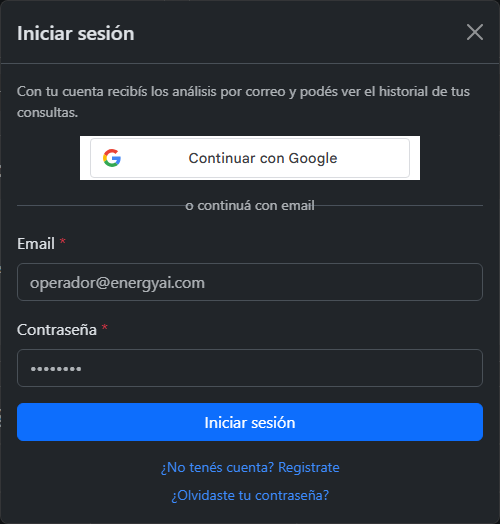
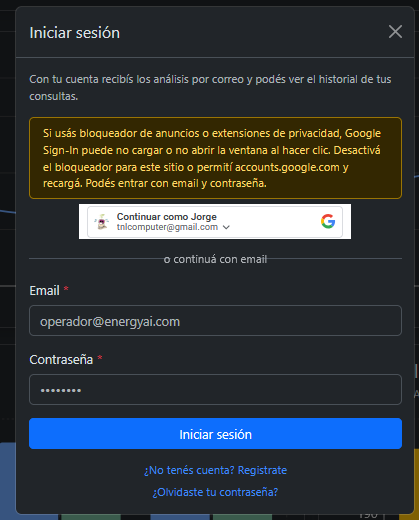
docs(frontend): README Análisis IA, login Google y aviso bloqueadores
Capturas analisis-ia y login; aviso preventivo en LoginModal; guía a11y.

diff --git a/frontend/src/components/LoginModal.jsx b/frontend/src/components/LoginModal.jsx
@@ -377,11 +377,11 @@ function LoginModal({ show, onHide, onAuthSuccess }) {
               }
             }}
           >
-            {googleBlockDetected && (
-              <div className="alert alert-warning py-2 small mb-2" role="status">
-                {t('auth.googleBlockHint')}
-              </div>
-            )}
+            <div className="alert alert-warning py-2 small mb-2" role="note">
+              {googleBlockDetected
+                ? t('auth.googleBlockHint')
+                : t('auth.googleBlockHintShort')}
+            </div>
             <GoogleSignInButton
               onCredential={handleGoogleCredential}
               onBlocked={showGoogleBlockAfterClick}

diff --git a/frontend/README.md b/frontend/README.md
@@ -68,10 +68,10 @@ Tras cambiar variables `VITE_*` en Vercel, ejecutá **Redeploy** (Vite embebe en
 |--------|-------------|
 | **Dashboard** | KPIs de consumo y costo, resumen en lenguaje claro, gráfico mensual, comparativas mock (real vs predicción, pico vs valle) y recomendaciones destacadas. |
 | **Consumos** | Totales, historial con indicador normal / sobre promedio y evolución gráfica. |
-| **Historia de consumos** | Análisis guardados del usuario autenticado; reenvío de mail según backend. |
-| **Análisis IA** | Formulario por tipo de inmueble (apartamento, casa, comercio); resultado con nivel, confianza, ahorro y tips i18n. |
+| **Historia de consumos** | Análisis guardados del usuario; gráficos con todo el historial, tabla paginada, detalle con datos ingresados y tabla de sugerencias; reenvío de mail. |
+| **Análisis IA** | Formulario ML de **12 campos** por tipo de inmueble; panel derecho con gráfico consumo vs referencia y tips priorizados tras analizar. |
 | **Recomendaciones** | Catálogo de tips traducidos (hábitos e inmueble). |
-| **Registro / login** | Modal unificado: email + contraseña, recuperación y **Google Sign-In** (GIS) si hay Client ID. |
+| **Registro / login** | Modal unificado: email + contraseña, recuperación, **Google Sign-In** (GIS) y aviso visible si bloqueadores interfieren con Google. |
 | **Verificar email / reset** | Rutas dedicadas activadas solo por link del correo (`verifyToken`, `resetToken`). |
 | **Panel admin** | CRUD de usuarios y vista global de análisis IA (rol `ADMIN`). |
 | **Contáctanos** | Formulario de contacto y equipo en flip cards. |
@@ -154,6 +154,8 @@ Las contraseñas demo **no** van en el repo; ver [`qa/README.md`](../qa/README.m
 | `npm run build` | Build estático en `dist/` |
 | `npm run preview` | Sirve el build localmente |
 | `npm run screenshots` | Genera PNG en `screenshots/` (requiere `npm run dev` y, para Google en capturas, `VITE_GOOGLE_CLIENT_ID`) |
+| `npm run screenshots:auth` | Solo login y registro (recomendado contra Vercel + `APP_URL`) |
+| `npm run screenshots:analisis` | Solo Análisis IA (formulario 12 campos) |
 | `npm run bake:world-map` | Regenera assets del mapa de idiomas |
 
 ---
@@ -170,9 +172,35 @@ Recuperación: **olvidé contraseña** envía link; **reset** solo con `resetTok
 
 ### Google Sign-In
 
-- Botón **Google Identity Services** en login y registro.
+- Botón **Google Identity Services** en login y registro (requiere `VITE_GOOGLE_CLIENT_ID`).
 - El backend valida el ID token en `POST /api/v1/auth/google` y emite JWT (email considerado verificado).
-- **Bloqueadores de anuncios** pueden impedir el script o el popup: la UI muestra aviso **después de un clic fallido** en Google; el login por email sigue disponible.
+
+#### Bloqueadores de anuncios y privacidad
+
+Extensiones (uBlock, Privacy Badger, etc.) pueden **bloquear el script de Google** o **impedir que abra la ventana** al hacer clic en “Continuar con Google”.
+
+En el modal se muestra un **aviso amarillo** (`alert-warning`):
+
+| Momento | Texto (clave i18n) |
+|---------|---------------------|
+| Siempre que hay botón Google | `auth.googleBlockHintShort` — aviso preventivo |
+| Tras clic sin popup / script fallido | `auth.googleBlockHint` — instrucciones completas (permitir `accounts.google.com`, recargar) |
+
+Detección en cliente (`LoginModal.jsx` + `googleSignInSupport.js`):
+
+1. **Clic en Google** → temporizador; si no hay blur de ventana (popup) ni credencial en ~2 s, se asume bloqueo.
+2. **Error `googleScriptFailed`** al cargar GIS → mismo aviso ampliado.
+3. **Login por email y contraseña** sigue disponible siempre.
+
+<div align="center">
+
+<img src="./screenshots/login.png" alt="Login con aviso de bloqueador de anuncios y Google Sign-In" width="520" />
+
+*Iniciar sesión: aviso de bloqueadores, botón Google y formulario email.*
+
+</div>
+
+**Google Cloud Console** (OAuth Web): registrar **Authorized JavaScript origins** para cada URL de prueba (ver [Configuración](#configuración)).
 
 ### Sesión JWT (cliente)
 
@@ -236,7 +264,9 @@ Cliente: `src/services/api.js` (Axios + interceptor 401).
 | `POST` | `/api/v1/contact` | Formulario contacto |
 | `GET` | `/api/consumos` | Series de consumo |
 | `GET` | `/api/recomendaciones` | Recomendaciones |
-| `POST` | `/api/analisis` | Análisis IA (Spring → ML/heurística) |
+| `POST` | `/api/analisis` | Análisis IA (Spring → ML/heurística); persiste consulta |
+| `GET` | `/api/analisis/mis?page&size` | Historial del usuario (paginado) |
+| `GET` | `/api/analisis/mis/chart-points` | Puntos ligeros para gráficos del historial |
 
 Cabecera autenticada: `Authorization: Bearer <accessToken>`.
 
@@ -244,9 +274,49 @@ Cabecera autenticada: `Authorization: Bearer <accessToken>`.
 
 ## Análisis IA (frontend)
 
-- Página `AnalisisIA.jsx`: validación de campos, envío a cadena **ML directo** → **Spring** → **heurística local** (`iaService.js`).
-- Tipos: `APARTAMENTO`, `CASA_UNIFAMILIAR`, `PEQUENO_ESTABLECIMIENTO_COMERCIAL`.
-- Respuesta esperada: `nivelKey`, `ahorro`, `tipKeys`, `benchmark`, `confidence`.
+Página **`AnalisisIA.jsx`**: layout en dos columnas (formulario + resultados), validación por campo, hints accesibles y envío a cadena **ML directo** → **Spring** → **heurística local** (`iaService.js`).
+
+### Tipos de instalación
+
+- `APARTAMENTO`
+- `CASA_UNIFAMILIAR`
+- `PEQUENO_ESTABLECIMIENTO_COMERCIAL`
+
+Cada tipo muestra texto de ayuda contextual bajo el selector.
+
+### Formulario ML (12 campos)
+
+Contrato alineado con backend (`AnalisisPayload`) y `src/utils/analisisMlContract.js`:
+
+| Campo | Uso |
+|--------|-----|
+| Tipo de instalación | Apartamento, casa o comercio |
+| Consumo mensual (kWh) | Obligatorio |
+| Consumo mes anterior (kWh) | Obligatorio |
+| Superficie (m²) | Obligatorio |
+| Cantidad de personas | Obligatorio |
+| Cantidad de equipos | Obligatorio |
+| Horas de uso de AA por día | Obligatorio |
+| Aislamiento térmico | Bueno / Regular / Malo |
+| Iluminación LED (%) | Obligatorio |
+| Antigüedad de la construcción (años) | Obligatorio |
+| Zona | Suburbana, urbana costera, urbana interior |
+| Antigüedad de electrodomésticos (años) | Obligatorio |
+
+**Opcional (legacy, no enviados al modelo actual):** horas de alto consumo por día y toggle de consumo en horario pico.
+
+Si hay sesión, se muestra el aviso de envío del resultado por correo al email del usuario.
+
+### Panel de resultados (columna derecha)
+
+- **Tu consumo vs referencia** — gráfico Recharts al completar consumo y ejecutar análisis.
+- **Sugerencias** — tabla con prioridad, texto i18n (`analysis.tipsList.*`) y enfoque; claves generadas en backend (`AnalisisTipsComposer` + reglas).
+- Tarjetas de **nivel**, **ahorro**, **confianza** y **benchmark** cuando hay respuesta.
+
+### Persistencia y reutilización
+
+- Historial y admin muestran los mismos campos en **`AnalysisRequestFieldsTable`**.
+- **Repetir análisis** desde Historia precarga borrador (`analisisDraft.js`).
 
 Documentación de contrato: [`docs/backend/ANALISIS_IA.md`](../docs/backend/ANALISIS_IA.md), [`ml-service/README.md`](../ml-service/README.md).
 
@@ -275,30 +345,39 @@ Galería en [`screenshots/`](./screenshots/). Índice: [`screenshots/README.md`]
 
 </div>
 
+<div align="center">
+
+### Análisis Inteligente IA (formulario ML)
+
+Formulario de 12 campos por tipo de inmueble, sección opcional legacy y placeholders de gráfico / sugerencias hasta pulsar **Analizar consumo**.
+
+<img src="./screenshots/analisis-ia.png" alt="Análisis IA — formulario casa unifamiliar con 12 campos ML" width="900" />
+
+</div>
+
 <table>
   <tr>
     <td width="50%"><strong>Consumos</strong><br /><img src="./screenshots/consumos.png" alt="Consumos" /></td>
-    <td width="50%"><strong>Análisis IA</strong><br /><img src="./screenshots/analisis-ia.png" alt="Análisis IA" /></td>
-  </tr>
-  <tr>
     <td width="50%"><strong>Historia de consumos</strong><br /><img src="./screenshots/historia-consumos.png" alt="Historia" /></td>
+  </tr>
+  <tr>
     <td width="50%"><strong>Mapa de idiomas</strong><br /><img src="./screenshots/mapa-idiomas.png" alt="Mapa idiomas" /></td>
-  </tr>
-  <tr>
     <td width="50%"><strong>Recomendaciones</strong><br /><img src="./screenshots/recomendaciones.png" alt="Recomendaciones" /></td>
+  </tr>
+  <tr>
     <td width="50%"><strong>Contáctanos</strong><br /><img src="./screenshots/contacto.png" alt="Contacto" /></td>
-  </tr>
-  <tr>
     <td width="50%"><strong>Admin — Usuarios</strong><br /><img src="./screenshots/admin-usuarios.png" alt="Admin usuarios" /></td>
+  </tr>
+  <tr>
     <td width="50%"><strong>Admin — Análisis</strong><br /><img src="./screenshots/admin-analisis.png" alt="Admin análisis" /></td>
+    <td width="50%"><strong>Login</strong> (Google + aviso bloqueadores)<br /><img src="./screenshots/login.png" alt="Login con aviso Google y bloqueadores" /></td>
   </tr>
   <tr>
-    <td width="50%"><strong>Login</strong> (email + Google)<br /><img src="./screenshots/login.png" alt="Login" /></td>
     <td width="50%"><strong>Registro</strong> (email + Google)<br /><img src="./screenshots/registro.png" alt="Registro" /></td>
+    <td width="50%"><strong>Recuperar contraseña</strong><br /><img src="./screenshots/forgot-password.png" alt="Forgot password" /></td>
   </tr>
   <tr>
-    <td width="50%"><strong>Recuperar contraseña</strong><br /><img src="./screenshots/forgot-password.png" alt="Forgot password" /></td>
-    <td width="50%"><strong>Verificar email / Reset</strong> (vía link del mail)<br /><img src="./screenshots/verify-email.png" alt="Verify email" /></td>
+    <td colspan="2"><strong>Verificar email / Reset</strong> (vía link del mail)<br /><img src="./screenshots/verify-email.png" alt="Verify email" width="50%" /></td>
   </tr>
 </table>
 

diff --git a/docs/frontend/ACCESIBILIDAD.md b/docs/frontend/ACCESIBILIDAD.md
@@ -38,7 +38,7 @@ Patrón gráficos Recharts:
 1. Contenedor del gráfico con **`aria-hidden="true"`**.
 2. **`ChartSrTable`**: tabla `visually-hidden` + `<caption>` (`a11y.chartDataCaption`).
 
-**Google Sign-In y bloqueadores:** aviso al usuario **solo tras un clic fallido** si el popup/script no responde (`LoginModal.jsx`, `googleSignInSupport.js`, clave `auth.googleBlockHint`).
+**Google Sign-In y bloqueadores:** aviso amarillo en el modal siempre que hay botón Google (`auth.googleBlockHintShort`); si el clic no abre popup o falla el script, texto ampliado (`auth.googleBlockHint`). Login por email sigue disponible (`LoginModal.jsx`, `googleSignInSupport.js`).
 
 ---
 
@@ -94,7 +94,7 @@ Patrón gráficos Recharts:
 ## Limitaciones conocidas
 
 - **Recharts**: solo los datos vía tabla SR; no hay sonificación del gráfico.
-- **Google GIS**: depende de Google; bloqueadores pueden impedir popup (aviso tras clic).
+- **Google GIS**: depende de Google; bloqueadores pueden impedir popup (aviso preventivo + ampliado tras clic fallido).
 - **Contraste / foco** en todos los estados hover/disabled: no auditado exhaustivamente.
 - Páginas **admin** y formularios largos: tienen algo de ARIA pero no revisión página por página.
 - Traducciones `a11y.*` completas en **ES/EN**; otros idiomas usan fallback EN vía `translate()`.

diff --git a/frontend/screenshots/README.md b/frontend/screenshots/README.md
@@ -35,14 +35,14 @@ Formato: **PNG**, viewport ~**1440×900** (o `fullPage` en páginas largas).
 | `dashboard.png` | Dashboard (KPIs, insights, gráficos) |
 | `consumos.png` | Consumos energéticos |
 | `historia-consumos.png` | Historia de consumos (análisis guardados) |
-| `analisis-ia.png` | Análisis IA (formulario casa / apartamento / comercio) |
+| `analisis-ia.png` | Análisis IA — formulario **12 campos ML** + opcionales legacy; panel derecho (gráfico y tips vacíos hasta analizar) |
 | `mapa-idiomas.png` | Modal mapa mundial de idiomas |
 | `recomendaciones.png` | Recomendaciones IA |
 | `contacto.png` | Contáctanos + Equipo 48 |
 | `admin-usuarios.png` | Panel Admin — Usuarios |
 | `admin-analisis.png` | Admin — Análisis IA (historial global) |
-| `login.png` | Modal — Entrar (email + **Continuar con Google**) |
-| `registro.png` | Modal — Crear cuenta (email + **Continuar con Google**) |
+| `login.png` | Modal **Iniciar sesión** — aviso bloqueadores / Google Sign-In, email y contraseña |
+| `registro.png` | Modal **Crear cuenta** (misma UX Google + aviso; ver `login.png` para detalle del aviso) |
 | `admin-crear-usuario.png` | Modal — Crear usuario |
 | `admin-editar-usuario.png` | Modal — Editar usuario |
 | `forgot-password.png` | Modal — Recuperar contraseña |
